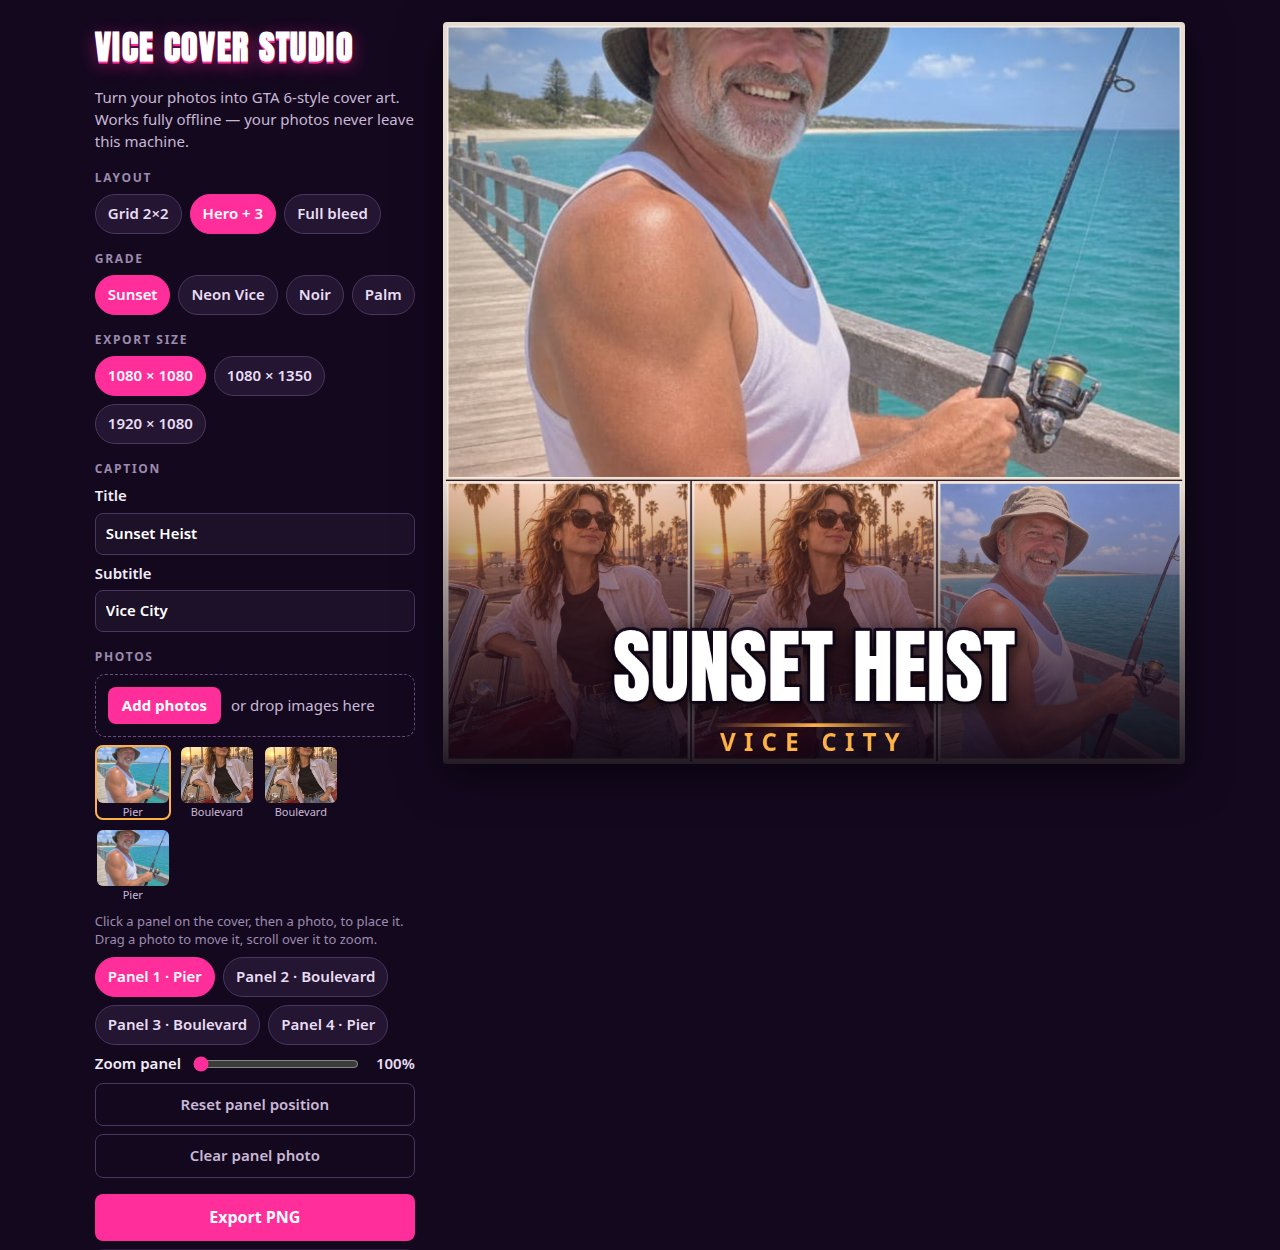
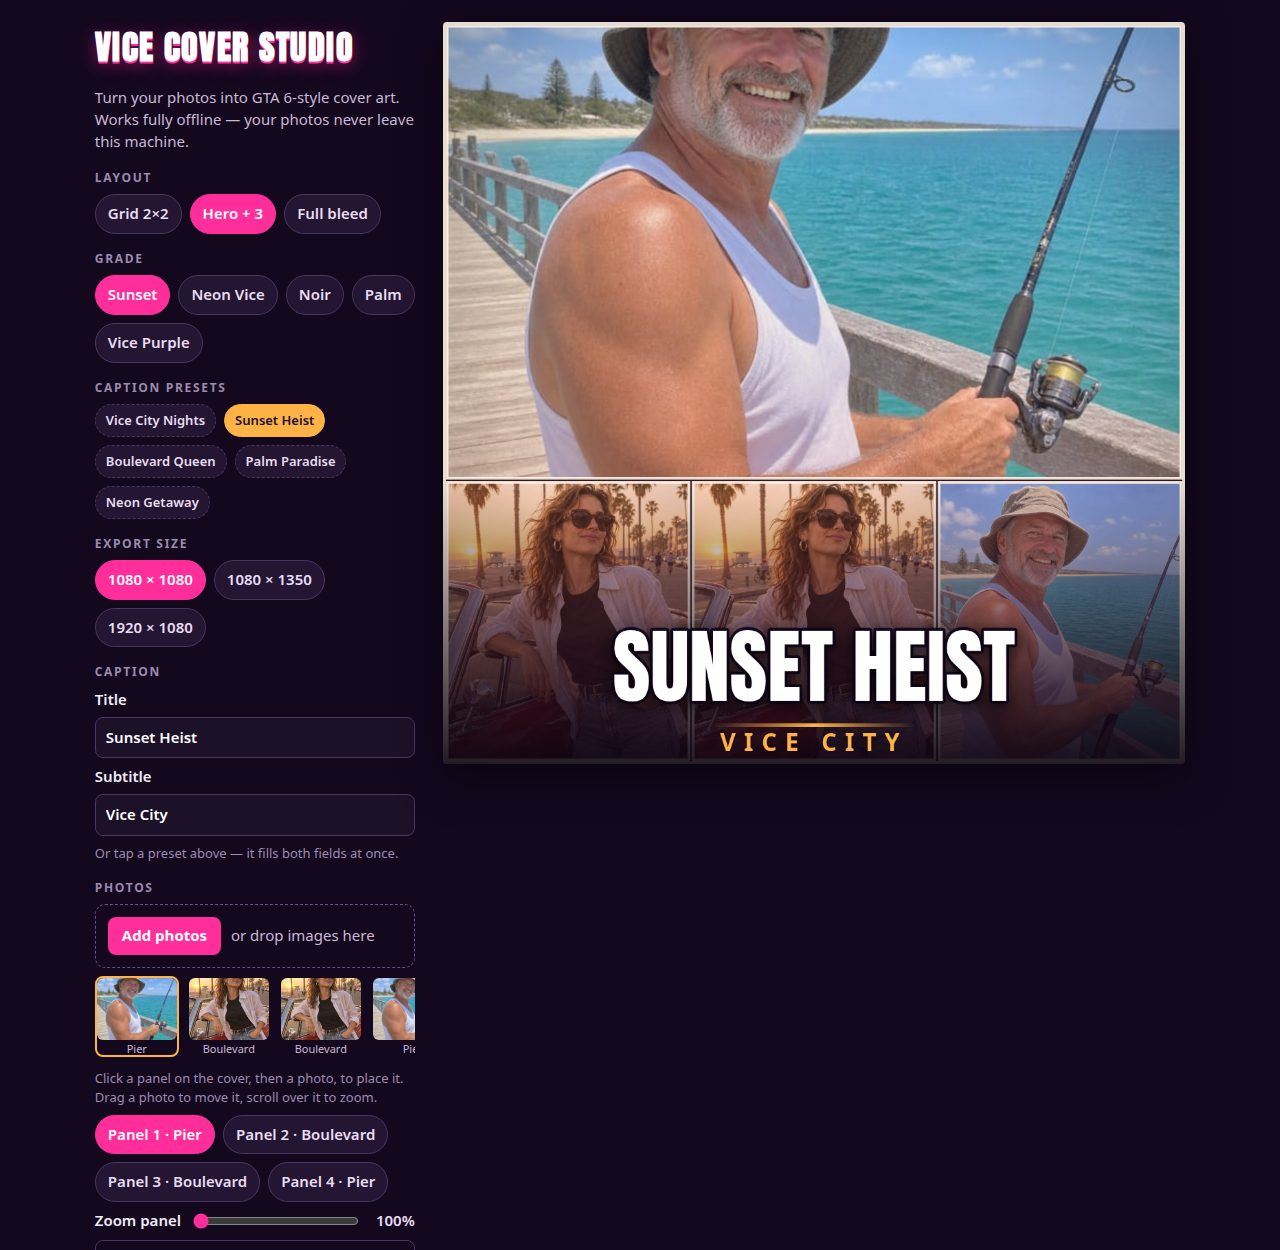
Revise Vice Cover Studio: Vice Purple grade + caption presets
- 5th grade 'Vice Purple' (violet/magenta neon): overlay, vignette,
  photo filter and grade-aware empty-panel gradients (cover.js)
- One-tap caption presets: 5 GTA-style title/subtitle pairs, wired into
  the editor and the ?shot= scenes via ?preset= (main.js, shots.js,
  index.html, style.css)
- Photo library: scrollable strip, larger thumbs, dedupe + skipped-file
  reporting on upload (main.js, style.css)
- Export controls: full-width buttons, accent shadow, aria-labels;
  responsive polish for narrow screens (index.html, style.css)
- main.ts: fails loudly when screenshots/ is missing/empty, run summary
- README: presets table + new grade; shots.json: fresh scenes incl.
  Vice Purple covers; .gitignore: logs, node_modules, tooling dirs

Changed region(s): [[0.0625, 0.2496, 0.3438, 1.0]]

diff --git a/app/src/cover.js b/app/src/cover.js
@@ -4,7 +4,7 @@
 //
 // state = {
 //   layout: 'grid' | 'hero' | 'full',
-//   grade: 'sunset' | 'neon' | 'noir' | 'palm',
+//   grade: 'sunset' | 'neon' | 'noir' | 'palm' | 'vice',
 //   title: string, subtitle: string,
 //   panels: [{ img: HTMLImageElement | null, ox: number, oy: number, zoom: number }]
 // }
@@ -23,7 +23,17 @@ export const GRADES = {
   neon: { name: 'Neon Vice', accent: '#ff2e9a' },
   noir: { name: 'Noir', accent: '#e8e8e8' },
   palm: { name: 'Palm', accent: '#2ee6c8' },
+  vice: { name: 'Vice Purple', accent: '#c04dff' },
 };
+
+/** One-tap GTA-style caption pairs: [title, subtitle]. */
+export const CAPTIONS = [
+  ['Vice City Nights', 'Grand Theft Auto VI'],
+  ['Sunset Heist', 'Vice City'],
+  ['Boulevard Queen', 'Vice City'],
+  ['Palm Paradise', 'Grand Theft Auto VI'],
+  ['Neon Getaway', 'Leonida'],
+];
 
 /** Panel rectangles for a layout, in canvas pixels. Gutters are cream poster lines. */
 export function panelsFor(layout, W, H) {
@@ -64,11 +74,19 @@ function drawPhoto(ctx, img, rect, panel, grade) {
   ctx.rect(x, y, w, h);
   ctx.clip();
   if (!img) {
-    // Empty slot: a deep gradient so the panel still reads as poster art.
+    // Empty slot: a deep gradient in the grade's own palette so the panel
+    // still reads as poster art.
+    const empty = {
+      sunset: ['#5e2a1d', '#33160f', '#1f0b08'],
+      neon: ['#5e1d4e', '#330f2e', '#1f081c'],
+      noir: ['#3a3a3a', '#1c1c1c', '#101010'],
+      palm: ['#0f4a3a', '#0a2e26', '#061a15'],
+      vice: ['#4a1d7a', '#2a0f4d', '#180830'],
+    }[grade] || ['#3b1d5e', '#1c0f33', '#12081f'];
     const grad = ctx.createLinearGradient(x, y, x + w, y + h);
-    grad.addColorStop(0, '#3b1d5e');
-    grad.addColorStop(0.55, '#1c0f33');
-    grad.addColorStop(1, '#12081f');
+    grad.addColorStop(0, empty[0]);
+    grad.addColorStop(0.55, empty[1]);
+    grad.addColorStop(1, empty[2]);
     ctx.fillStyle = grad;
     ctx.fillRect(x, y, w, h);
     ctx.fillStyle = 'rgba(255,255,255,0.55)';
@@ -79,6 +97,7 @@ function drawPhoto(ctx, img, rect, panel, grade) {
     return;
   }
   if (grade === 'noir') ctx.filter = 'grayscale(1) contrast(1.12) brightness(1.04)';
+  if (grade === 'vice') ctx.filter = 'saturate(1.3) contrast(1.06)';
   const base = Math.max(w / img.naturalWidth, h / img.naturalHeight);
   const scale = base * (panel.zoom || 1);
   const dw = img.naturalWidth * scale;
@@ -119,6 +138,14 @@ function gradeOverlay(ctx, grade, W, H) {
     grad.addColorStop(1, 'rgba(255,255,255,0)');
     ctx.fillStyle = grad;
     ctx.fillRect(0, 0, W, H * 0.25);
+  } else if (grade === 'vice') {
+    // vice purple: violet top, magenta heart, deep purple foot
+    grad = ctx.createLinearGradient(0, 0, W, H);
+    grad.addColorStop(0, 'rgba(150,60,255,0.22)');
+    grad.addColorStop(0.5, 'rgba(200,40,220,0.10)');
+    grad.addColorStop(1, 'rgba(60,0,120,0.30)');
+    ctx.fillStyle = grad;
+    ctx.fillRect(0, 0, W, H);
   } else {
     // palm: teal top, warm gold bottom
     grad = ctx.createLinearGradient(0, 0, 0, H);
@@ -134,7 +161,7 @@ function gradeOverlay(ctx, grade, W, H) {
     W / 2, H / 2, Math.max(W, H) * 0.75,
   );
   vig.addColorStop(0, 'rgba(0,0,0,0)');
-  vig.addColorStop(1, grade === 'noir' ? 'rgba(0,0,0,0.5)' : 'rgba(0,0,0,0.28)');
+  vig.addColorStop(1, grade === 'noir' ? 'rgba(0,0,0,0.5)' : grade === 'vice' ? 'rgba(20,0,40,0.38)' : 'rgba(0,0,0,0.28)');
   ctx.fillStyle = vig;
   ctx.fillRect(0, 0, W, H);
 }

diff --git a/app/style.css b/app/style.css
@@ -19,6 +19,9 @@ html, body { margin: 0; min-height: 100%; background: #14081f; color: #f2ecf7; f
 .chip { font: inherit; font-weight: 600; padding: 8px 12px; border: 1px solid #4a365e; border-radius: 999px; background: #241533; color: #e9ddf3; cursor: pointer; }
 .chip:hover { border-color: #ff2e9a; }
 .chip.active { background: #ff2e9a; border-color: #ff2e9a; color: #fff; }
+.chip[data-grade="vice"].active { background: #8b2fe0; border-color: #c04dff; }
+.chip.preset { font-size: 13px; padding: 6px 10px; border-style: dashed; }
+.chip.preset.active { background: #ffb347; border-color: #ffb347; border-style: solid; color: #1c0f33; }
 
 label { display: flex; flex-direction: column; gap: 6px; font-weight: 600; }
 input[type=text] { font: inherit; padding: 9px 10px; border: 1px solid #4a365e; border-radius: 8px; background: #1d1029; color: #fff; }
@@ -29,9 +32,11 @@ input[type=text]:focus { outline: 2px solid #ff2e9a; outline-offset: 1px; }
 .file-btn { display: inline-block; padding: 8px 14px; border-radius: 8px; background: #ff2e9a; color: #fff; font-weight: 700; cursor: pointer; }
 .file-btn input { position: absolute; width: 1px; height: 1px; opacity: 0; overflow: hidden; }
 
-.thumbs { display: flex; flex-wrap: wrap; gap: 8px; }
-.thumb { display: flex; flex-direction: column; gap: 2px; width: 76px; padding: 0; border: 2px solid transparent; border-radius: 8px; background: none; cursor: pointer; color: #c9b8d6; font: 11px/1.2 system-ui, sans-serif; }
-.thumb img { width: 100%; height: 56px; object-fit: cover; border-radius: 6px; display: block; }
+.thumbs { display: flex; flex-wrap: nowrap; gap: 8px; overflow-x: auto; padding-bottom: 4px; scrollbar-width: thin; }
+.thumb { display: flex; flex-direction: column; gap: 2px; width: 84px; flex: none; padding: 0; border: 2px solid transparent; border-radius: 8px; background: none; cursor: pointer; color: #c9b8d6; font: 11px/1.2 system-ui, sans-serif; }
+.thumb img { width: 100%; height: 62px; object-fit: cover; border-radius: 6px; display: block; }
+.thumb span { overflow: hidden; text-overflow: ellipsis; white-space: nowrap; }
+.thumb:hover { border-color: #6b4d86; }
 .thumb.active { border-color: #ffb347; }
 .hint { margin: 0; color: #9d8bb0; font-size: 13px; }
 
@@ -43,6 +48,9 @@ button { font: inherit; font-weight: 700; padding: 10px; border: 0; border-radiu
 button:hover { filter: brightness(1.15); }
 button.primary { background: #ff2e9a; font-size: 16px; padding: 12px; }
 button.ghost { background: transparent; border: 1px solid #4a365e; color: #c9b8d6; font-weight: 600; }
+.export-group { gap: 10px; }
+.export-group button { width: 100%; }
+.export-group button.primary { box-shadow: 0 4px 18px rgba(255, 46, 154, 0.4); }
 
 #status { margin: 0; color: #9d8bb0; min-height: 1.2em; font-size: 13px; }
 .foot { margin: 0; color: #6f5d80; font-size: 12px; }
@@ -54,9 +62,10 @@ canvas:active { cursor: grabbing; }
 
 /* Narrow screens: controls stack above the cover. */
 @media (max-width: 900px) {
-  .app { flex-direction: column; align-items: stretch; }
+  .app { flex-direction: column; align-items: stretch; padding: 16px; gap: 18px; }
   .controls { width: auto; }
   canvas { width: 100%; }
+  .controls h1 { font-size: 30px; }
 }
 
 body.shot-cover .controls { display: none; }

diff --git a/app/src/main.js b/app/src/main.js
@@ -1,7 +1,7 @@
 // Wires the page: layouts, grades, photos, caption, export.
 // State lives in one object; every control mutates it and calls redraw().
 // A `?shot=` query sets up a fixed scene for a screenshot instead (./shots.js).
-import { drawCover, LAYOUTS, GRADES, panelsFor } from './cover.js';
+import { drawCover, LAYOUTS, GRADES, CAPTIONS, panelsFor } from './cover.js';
 import { runShot } from './shots.js';
 
 export const SIZES = {
@@ -77,6 +77,19 @@ function setGrade(key) {
   document.querySelectorAll('[data-grade]').forEach((b) =>
     b.classList.toggle('active', b.dataset.grade === key));
   redraw();
+}
+
+/** Applies one of the ready-made GTA-style caption pairs. */
+function applyCaption(i) {
+  const pair = CAPTIONS[i];
+  if (!pair) return;
+  [state.title, state.subtitle] = pair;
+  document.getElementById('title').value = state.title;
+  document.getElementById('subtitle').value = state.subtitle;
+  document.querySelectorAll('[data-preset]').forEach((b) =>
+    b.classList.toggle('active', Number(b.dataset.preset) === i));
+  statusEl.textContent = `Caption: “${state.title}” — ${state.subtitle}`;
+  drawCover(canvas, state);
 }
 
 function selectPanel(i) {
@@ -157,15 +170,21 @@ function renderThumbs() {
 
 async function addFiles(files) {
   let added = 0;
+  let skipped = 0;
   for (const file of files) {
-    if (!file.type.startsWith('image/')) continue;
+    if (!file.type.startsWith('image/')) { skipped++; continue; }
+    const name = file.name.replace(/\.[^.]+$/, '');
+    if (state.library.some((l) => l.name === name)) { skipped++; continue; }
     try {
       const img = await loadImage(URL.createObjectURL(file));
-      state.library.push({ img, name: file.name.replace(/\.[^.]+$/, '') });
+      state.library.push({ img, name });
       added++;
-    } catch { /* skip unreadable files */ }
+    } catch { skipped++; }
   }
-  if (!added) return;
+  if (!added) {
+    if (skipped) statusEl.textContent = `Skipped ${skipped} file${skipped > 1 ? 's' : ''} (not an image, unreadable or already added)`;
+    return;
+  }
   // Fill empty panels with new photos, first come first served.
   let li = state.library.length - added;
   for (let i = 0; i < panelCount() && li < state.library.length; i++) {
@@ -177,7 +196,7 @@ async function addFiles(files) {
       li++;
     }
   }
-  statusEl.textContent = `Added ${added} photo${added > 1 ? 's' : ''}`;
+  statusEl.textContent = `Added ${added} photo${added > 1 ? 's' : ''}${skipped ? ` (${skipped} skipped)` : ''}`;
   redraw();
 }
 
@@ -261,6 +280,8 @@ document.querySelectorAll('[data-layout]').forEach((b) =>
   b.addEventListener('click', () => setLayout(b.dataset.layout)));
 document.querySelectorAll('[data-grade]').forEach((b) =>
   b.addEventListener('click', () => setGrade(b.dataset.grade)));
+document.querySelectorAll('[data-preset]').forEach((b) =>
+  b.addEventListener('click', () => applyCaption(Number(b.dataset.preset))));
 document.querySelectorAll('[data-size]').forEach((b) =>
   b.addEventListener('click', () => setSize(b.dataset.size)));
 

diff --git a/main.ts b/main.ts
@@ -2,22 +2,33 @@
 // static files a desktop browser loads offline (app/index.html and its ES modules, no library and no network
 // request), and the program hands it in. It copies app/ and screenshots/ from beside this file to /output and writes
 // /output/dossier.json, the summary the judge reads, with the vendored make.fun library. The app itself is Vice Cover
-// Studio: a multi-panel cover maker (Grid 2x2, Hero + 3, Full bleed) with four colour grades, per-panel photo
-// crop and position, display caption lettering and one-click PNG export in 1080x1080, 1080x1350 and 1920x1080.
-// Its two sample photos (app/samples/) were made for make.fun with an image model and are free to use. Put your 3 or
-// 4 PNG or JPEG screenshots in screenshots/ (the first by name is the cover) and run it.
+// Studio: a multi-panel cover maker (Grid 2x2, Hero + 3, Full bleed) with five colour grades, per-panel photo
+// crop and position, display caption lettering, one-tap caption presets and one-click PNG export in 1080x1080,
+// 1080x1350 and 1920x1080.
+// Its two sample photos (app/samples/) were made for make.fun with an image model and are free to use. Revised
+// entry: five colour grades (Sunset, Neon Vice, Noir, Palm, Vice Purple), one-tap caption presets, a scrollable
+// photo library strip and polished export controls. Put your 3 or 4 PNG or JPEG screenshots in screenshots/ (the
+// first by name is the cover) and run it.
 //
 // Serve it locally with `node serve.ts`, then open http://localhost:8080.
 // Outside the grader's container, MAKEFUN_OUTPUT_DIR stands in for /output:
 //   mkdir -p out && MAKEFUN_OUTPUT_DIR=out node main.ts
 
-import { cpSync, existsSync, mkdirSync, writeFileSync } from 'node:fs';
+import { cpSync, existsSync, mkdirSync, readdirSync, writeFileSync } from 'node:fs';
 import { join } from 'node:path';
 import { fileURLToPath } from 'node:url';
 import { buildDossier } from './vendor/makefun-app.ts';
 
 const here = fileURLToPath(new URL('.', import.meta.url));
 const out = process.env.MAKEFUN_OUTPUT_DIR ?? '/output';
+
+// Fail loudly instead of handing in an empty entry: screenshots are required.
+if (!existsSync(join(here, 'screenshots'))) {
+  throw new Error('screenshots/ is missing — add 3 or 4 screenshots before running main.ts');
+}
+if (readdirSync(join(here, 'screenshots')).filter((f) => /\.(png|jpe?g)$/i.test(f)).length === 0) {
+  throw new Error('screenshots/ has no PNG/JPEG files — add 3 or 4 screenshots before running main.ts');
+}
 
 mkdirSync(out, { recursive: true });
 cpSync(join(here, 'app'), join(out, 'app'), { recursive: true });
@@ -38,3 +49,6 @@ writeFileSync(
     app_path_max_bytes: 1000,
   }),
 );
+
+// Small run summary so a failed or empty hand-in is obvious at a glance.
+console.log(`Vice Cover Studio → ${out}/dossier.json (app + screenshots copied)`);

diff --git a/app/index.html b/app/index.html
@@ -29,6 +29,18 @@
         <button data-grade="neon" class="chip" type="button">Neon Vice</button>
         <button data-grade="noir" class="chip" type="button">Noir</button>
         <button data-grade="palm" class="chip" type="button">Palm</button>
+        <button data-grade="vice" class="chip" type="button">Vice Purple</button>
+      </div>
+    </div>
+
+    <div class="group">
+      <h2>Caption presets</h2>
+      <div class="row presets">
+        <button data-preset="0" class="chip preset" type="button">Vice City Nights</button>
+        <button data-preset="1" class="chip preset" type="button">Sunset Heist</button>
+        <button data-preset="2" class="chip preset" type="button">Boulevard Queen</button>
+        <button data-preset="3" class="chip preset" type="button">Palm Paradise</button>
+        <button data-preset="4" class="chip preset" type="button">Neon Getaway</button>
       </div>
     </div>
 
@@ -45,6 +57,7 @@
       <h2>Caption</h2>
       <label>Title <input id="title" type="text" maxlength="40" value="Sunset Heist"></label>
       <label>Subtitle <input id="subtitle" type="text" maxlength="30" value="Vice City"></label>
+      <p class="hint">Or tap a preset above — it fills both fields at once.</p>
     </div>
 
     <div class="group">
@@ -66,9 +79,9 @@
       <button id="clear-panel" type="button" class="ghost">Clear panel photo</button>
     </div>
 
-    <div class="group">
-      <button id="export" type="button" class="primary">Export PNG</button>
-      <button id="export-all" type="button">Export all 3 sizes</button>
+    <div class="group export-group">
+      <button id="export" type="button" class="primary" aria-label="Export this cover as a PNG">Export PNG</button>
+      <button id="export-all" type="button" aria-label="Export this cover in all three sizes">Export all 3 sizes</button>
       <p id="status" role="status"></p>
     </div>
     <p class="foot">Sample photos ship with the kit and are free to use. No Rockstar artwork, logos or fonts are used.</p>

diff --git a/app/src/shots.js b/app/src/shots.js
@@ -1,8 +1,10 @@
 // Fixed scenes for screenshots: ?shot=editor shows the page with sample photos;
 // ?shot=cover shows the cover alone.
-// Query params: layout (grid|hero|full), grade (sunset|neon|noir|palm),
+// Query params: layout (grid|hero|full), grade (sunset|neon|noir|palm|vice),
 // size (1080x1080|1080x1350|1920x1080), photo (comma list of sample names),
-// caption (the title), subtitle. window.__shotReady is set once painted.
+// caption (the title), subtitle, preset (index into the CAPTIONS list).
+// window.__shotReady is set once painted.
+import { CAPTIONS } from './cover.js';
 const SIZES = {
   '1080x1080': [1080, 1080],
   '1080x1350': [1080, 1350],
@@ -28,8 +30,12 @@ export async function runShot(shot, query, state, draw) {
   const layout = query.get('layout');
   if (layout === 'grid' || layout === 'hero' || layout === 'full') state.layout = layout;
   const grade = query.get('grade');
-  if (grade === 'sunset' || grade === 'neon' || grade === 'noir' || grade === 'palm') {
+  if (grade === 'sunset' || grade === 'neon' || grade === 'noir' || grade === 'palm' || grade === 'vice') {
     state.grade = grade;
+  }
+  const preset = Number(query.get('preset'));
+  if (Number.isInteger(preset) && CAPTIONS[preset]) {
+    [state.title, state.subtitle] = CAPTIONS[preset];
   }
   const size = query.get('size');
   if (SIZES[size]) state.size = size;
@@ -77,6 +83,10 @@ export async function runShot(shot, query, state, draw) {
     b.classList.toggle('active', b.dataset.grade === state.grade));
   document.querySelectorAll('[data-size]').forEach((b) =>
     b.classList.toggle('active', b.dataset.size === state.size));
+  document.querySelectorAll('[data-preset]').forEach((b) =>
+    b.classList.toggle('active', CAPTIONS[Number(b.dataset.preset)] &&
+      CAPTIONS[Number(b.dataset.preset)][0] === state.title &&
+      CAPTIONS[Number(b.dataset.preset)][1] === state.subtitle));
 
   await draw();
   requestAnimationFrame(() => requestAnimationFrame(() => { window.__shotReady = true; }));

diff --git a/README.md b/README.md
@@ -5,7 +5,8 @@
 # Vice Cover Studio
 
 A free, offline web app that turns your photos into GTA 6-style cover art — the
-multi-panel poster look with a neon-sunset grade. Built for the
+multi-panel poster look with a neon-sunset grade, now with a fifth grade
+(Vice Purple) and one-tap caption presets. Built for the
 [make.fun bounty gta6-cover-art-01](https://make.fun/bounty/gta6-cover-art-01).
 
 ## What it does
@@ -13,16 +14,29 @@ multi-panel poster look with a neon-sunset grade. Built for the
 - **3 layouts** — Grid 2×2, Hero + 3, and Full bleed.
 - **Any photos** — upload your own (or drop them in), pick a photo per panel,
   drag to reposition and scroll / slide to zoom each panel.
-- **4 grades** — Sunset, Neon Vice, Noir, Palm, each with its own grade overlays
-  and vignette.
+- **5 grades** — Sunset, Neon Vice, Noir, Palm and the new Vice Purple
+  (violet/magenta neon), each with its own grade overlays and vignette.
 - **Caption** — editable title and subtitle in heavy display lettering
-  (Anton, vendored locally, OFL).
+  (Anton, vendored locally, OFL), or pick one of 5 ready-made GTA-style
+  caption presets in one tap.
 - **Export** — one-click PNG in 1080×1080, 1080×1350 and 1920×1080, drawn at
   full resolution on an offscreen canvas.
 
 Everything runs in the browser from local files — no network requests, no
 uploads, your photos never leave your machine. Two sample photos ship with the
 app so it works immediately.
+
+## Caption presets
+
+One tap fills title + subtitle with a ready-made GTA-style pair:
+
+| Preset | Title | Subtitle |
+| --- | --- | --- |
+| Vice City Nights | Vice City Nights | Grand Theft Auto VI |
+| Sunset Heist | Sunset Heist | Vice City |
+| Boulevard Queen | Boulevard Queen | Vice City |
+| Palm Paradise | Palm Paradise | Grand Theft Auto VI |
+| Neon Getaway | Neon Getaway | Leonida |
 
 ## Try it
 
